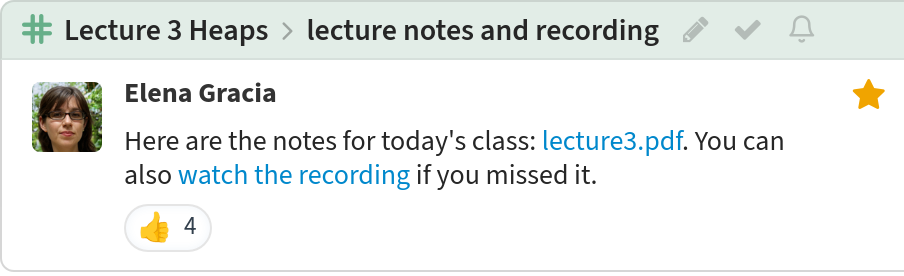
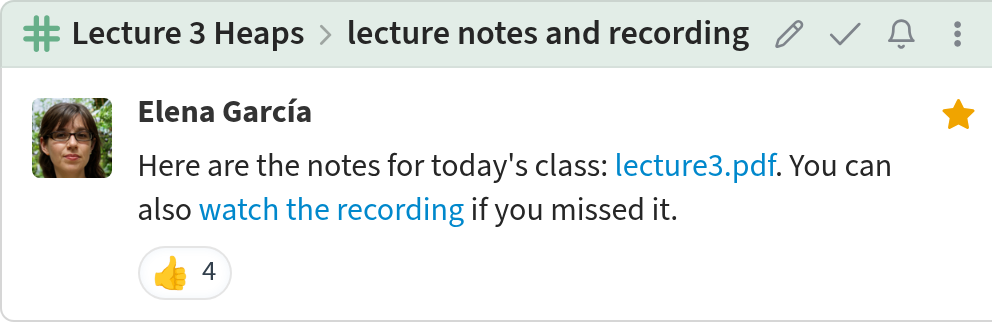
corporate: Update for/education screenshots for canonical Elena.
Fixes the screenshots on the for/education page to have the
canonical last name for the example user Elena Garcia.

Updates year in dates for screenshot content to align with when
the screenshots were taken.

Adjusts the width of the viewport for changes in the message
header bar in the web app. Also closes any alert banner at the
top of the app before navigating to the narrow so that doesn't
impact the cropped screenshot area that's computed later.

Finally, sets hover on the new conversation button so that none
of the message action buttons are visible in the message feed
when the screenshot is taken.

diff --git a/tools/screenshots/thread-screenshot.js b/tools/screenshots/thread-screenshot.js
@@ -41,7 +41,7 @@ async function run() {
     try {
         const page = await browser.newPage();
         // deviceScaleFactor:2 gives better quality screenshots (higher pixel density)
-        await page.setViewport({width: 530, height: 1024, deviceScaleFactor: 2});
+        await page.setViewport({width: 580, height: 1024, deviceScaleFactor: 2});
         await page.goto(`${realmUrl}/devlogin`);
         // wait for Iago devlogin button and click on it.
         await page.waitForSelector('[value="iago@zulip.com"]');
@@ -51,6 +51,11 @@ async function run() {
             page.waitForNavigation({waitUntil: "domcontentloaded"}),
             page.click('[value="iago@zulip.com"]'),
         ]);
+
+        // Close any banner at the top of the app before taking any screenshots.
+        const top_banner_close_button_selector = ".banner-close-action";
+        await page.waitForSelector(top_banner_close_button_selector);
+        page.click(top_banner_close_button_selector);
 
         // Navigate to message and capture screenshot
         await page.goto(`${narrowUri}`, {
@@ -83,9 +88,12 @@ async function run() {
             }
         }, background_selectors);
 
+        // This is done so that the message control buttons are not visible.
+        await page.hover(".compose_new_conversation_button");
+
         // Compute screenshot area, with some padding around the message group
         const clip = {...(await messageListBox.boundingBox())};
-        clip.width -= 64;
+        clip.width -= 70;
         clip.y += 10;
         clip.height -= 8;
         const imageDir = path.dirname(imagePath);
